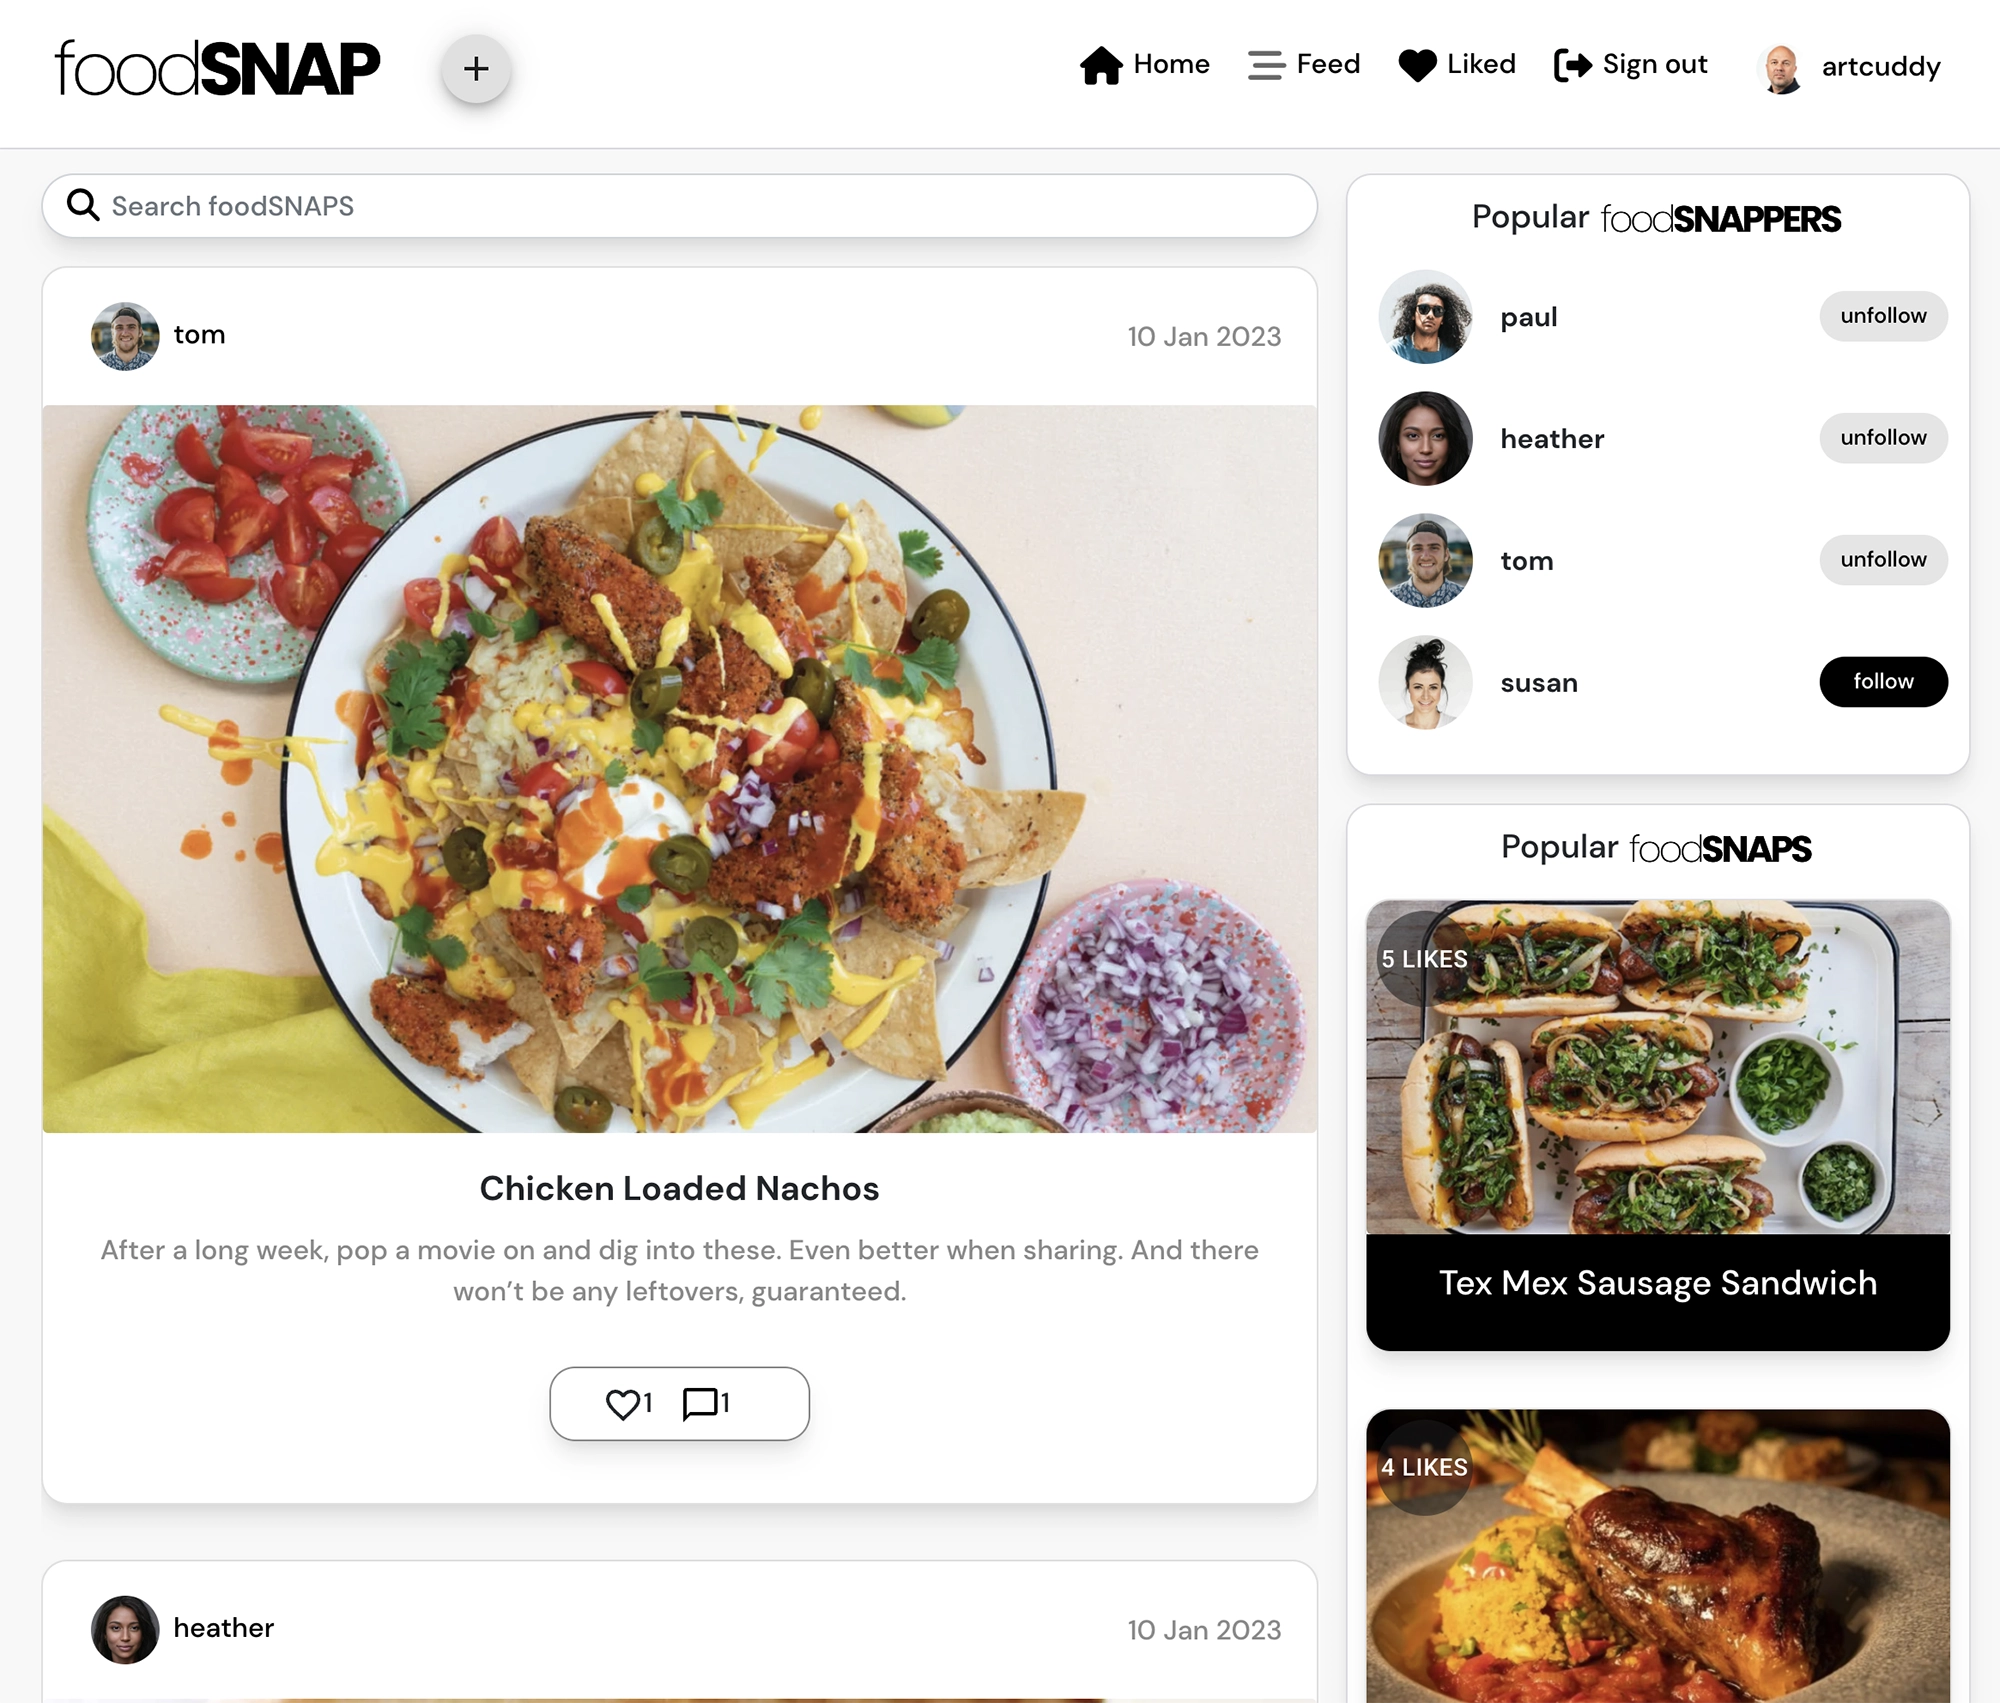
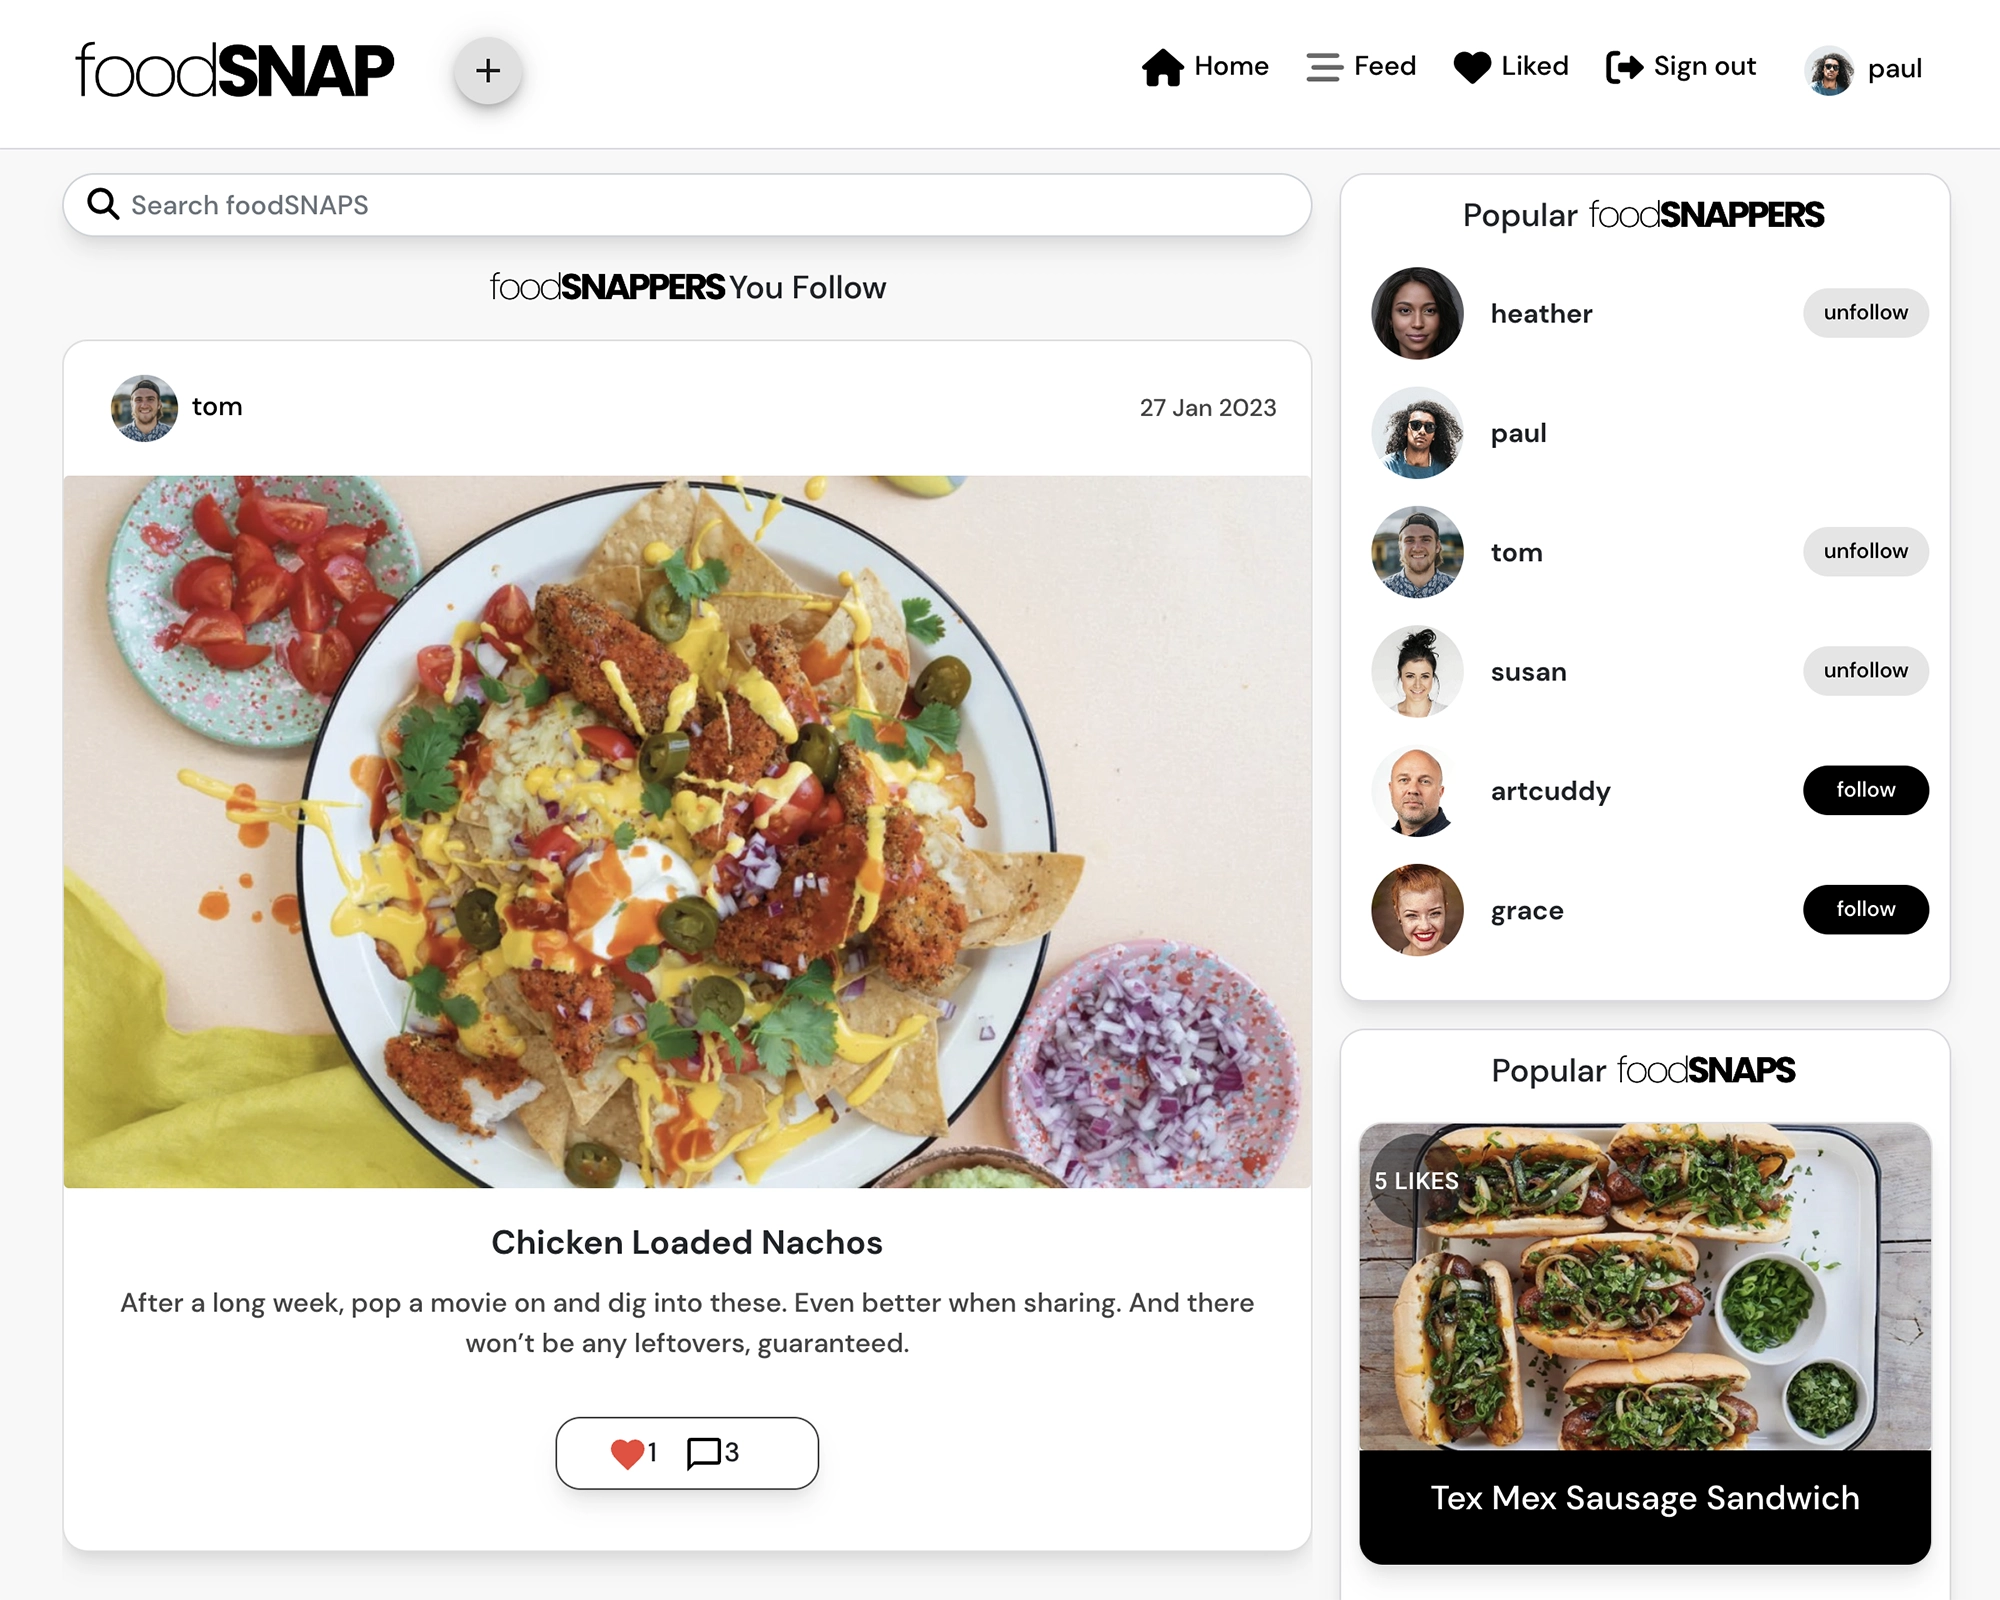
Add: liked and followed message and new screen grabs

diff --git a/src/styles/PostCreateEditForm.module.css b/src/styles/PostCreateEditForm.module.css
@@ -1,6 +1,6 @@
 .Container {
     min-height: 343px;
-    margin-bottom: 64px;
+    margin-bottom: 100px;
 }
 
 .FormTitle {

diff --git a/README.md b/README.md
@@ -266,6 +266,8 @@ Initial Wireframes
 
 -   When an authenticated user follows a foodSNAPPER this will be added to their feed page which can be accessed by clicking on the feed icon on the navbar.
 
+-   A title is shown "foodSNAPPERS You Follow" under the search bar to display to the user that you are on the feed page.
+
 -   If the user has not followed anyone a message will appear to follow a user.
 
 <img src="documentation/screenshots/feedresults.webp">
@@ -275,6 +277,8 @@ Initial Wireframes
 <a href="#top">Back to the top.</a>
 
 -   When an authenticated user likes a foodSNAP this will be added to their liked foodSNAPS page which can be accessed by clicking on the heart liked icon on the navbar.
+
+-   A title is shown "foodSNAPS You Liked" under the search bar to display to the user that you are on the liked page.
 
 -   If the user has not liked any foodSNAPS a message will appear to like a foodSNAP first.
 
@@ -432,17 +436,19 @@ Custom components were created to enable the code and functionality to re-used t
 
 -   [NotFound.js](https://github.com/artcuddy/project5-foodsnap-frontend/blob/main/src/components/NotFound.js) was created to display a message to the user if the content they are looking for does not exist.
 
--   [MoreDropdown.js](https://github.com/artcuddy/project5-foodsnap-frontend/blob/main/src/components/MoreDropdown.js) was created to display a dropdown menu to display the options to edit or delete the content.
+-   [MoreDropdown.js](https://github.com/artcuddy/project5-foodsnap-frontend/blob/main/src/components/MoreDropdown.js) was created to display a message to the user if the content they are looking for does not exist.
+
+-   [FollowedFoodSnappers.js](https://github.com/artcuddy/project5-foodsnap-frontend/blob/main/src/components/FollowedFoodSnappers.js) was created to display a message "foodSNAPPERS You Follow" at the top of the feed page based on on the URL being /feed.
+
+-   [LikedFoodSnaps.js](https://github.com/artcuddy/project5-foodsnap-frontend/blob/main/src/components/LikedFoodSnaps.js) was created to display a message "foodSNAPS You Liked" at the top of the liked page based on the URL being /liked.
+
+<h2 id="custom-hooks">Custom Hooks</h2>
 
 -   [useAlert.js](https://github.com/artcuddy/project5-foodsnap-frontend/blob/main/src/hooks/useAlert.js) hook was created to call the alert messaging in the app
 
 -   [useRedirect.js](https://github.com/artcuddy/project5-foodsnap-frontend/blob/main/src/hooks/useRedirect.js) was created to redirect the user to the homepage based on their userAuthStatus
 
 -   [useClickOutsideToggle.js](https://github.com/artcuddy/project5-foodsnap-frontend/blob/main/src/hooks/useClickOutsideToggle.js) was created close the expanded menu on a click outside the menu at every stage in the app
-
--   [FollowedFoodSnappers.js](https://github.com/artcuddy/project5-foodsnap-frontend/blob/main/src/components/FollowedFoodSnappers.js) was created to display a message "foodSNAPPERS You Follow" at the top of the feed page based on on the URL being /feed.
-
--   [LikedFoodSnaps.js](https://github.com/artcuddy/project5-foodsnap-frontend/blob/main/src/components/LikedFoodSnaps.js) was created to display a message "foodSNAPS You Liked" at the top of the liked page based on the URL being /liked.
 
 <h2 id="custom-contexts">Custom Context</h2>
 
